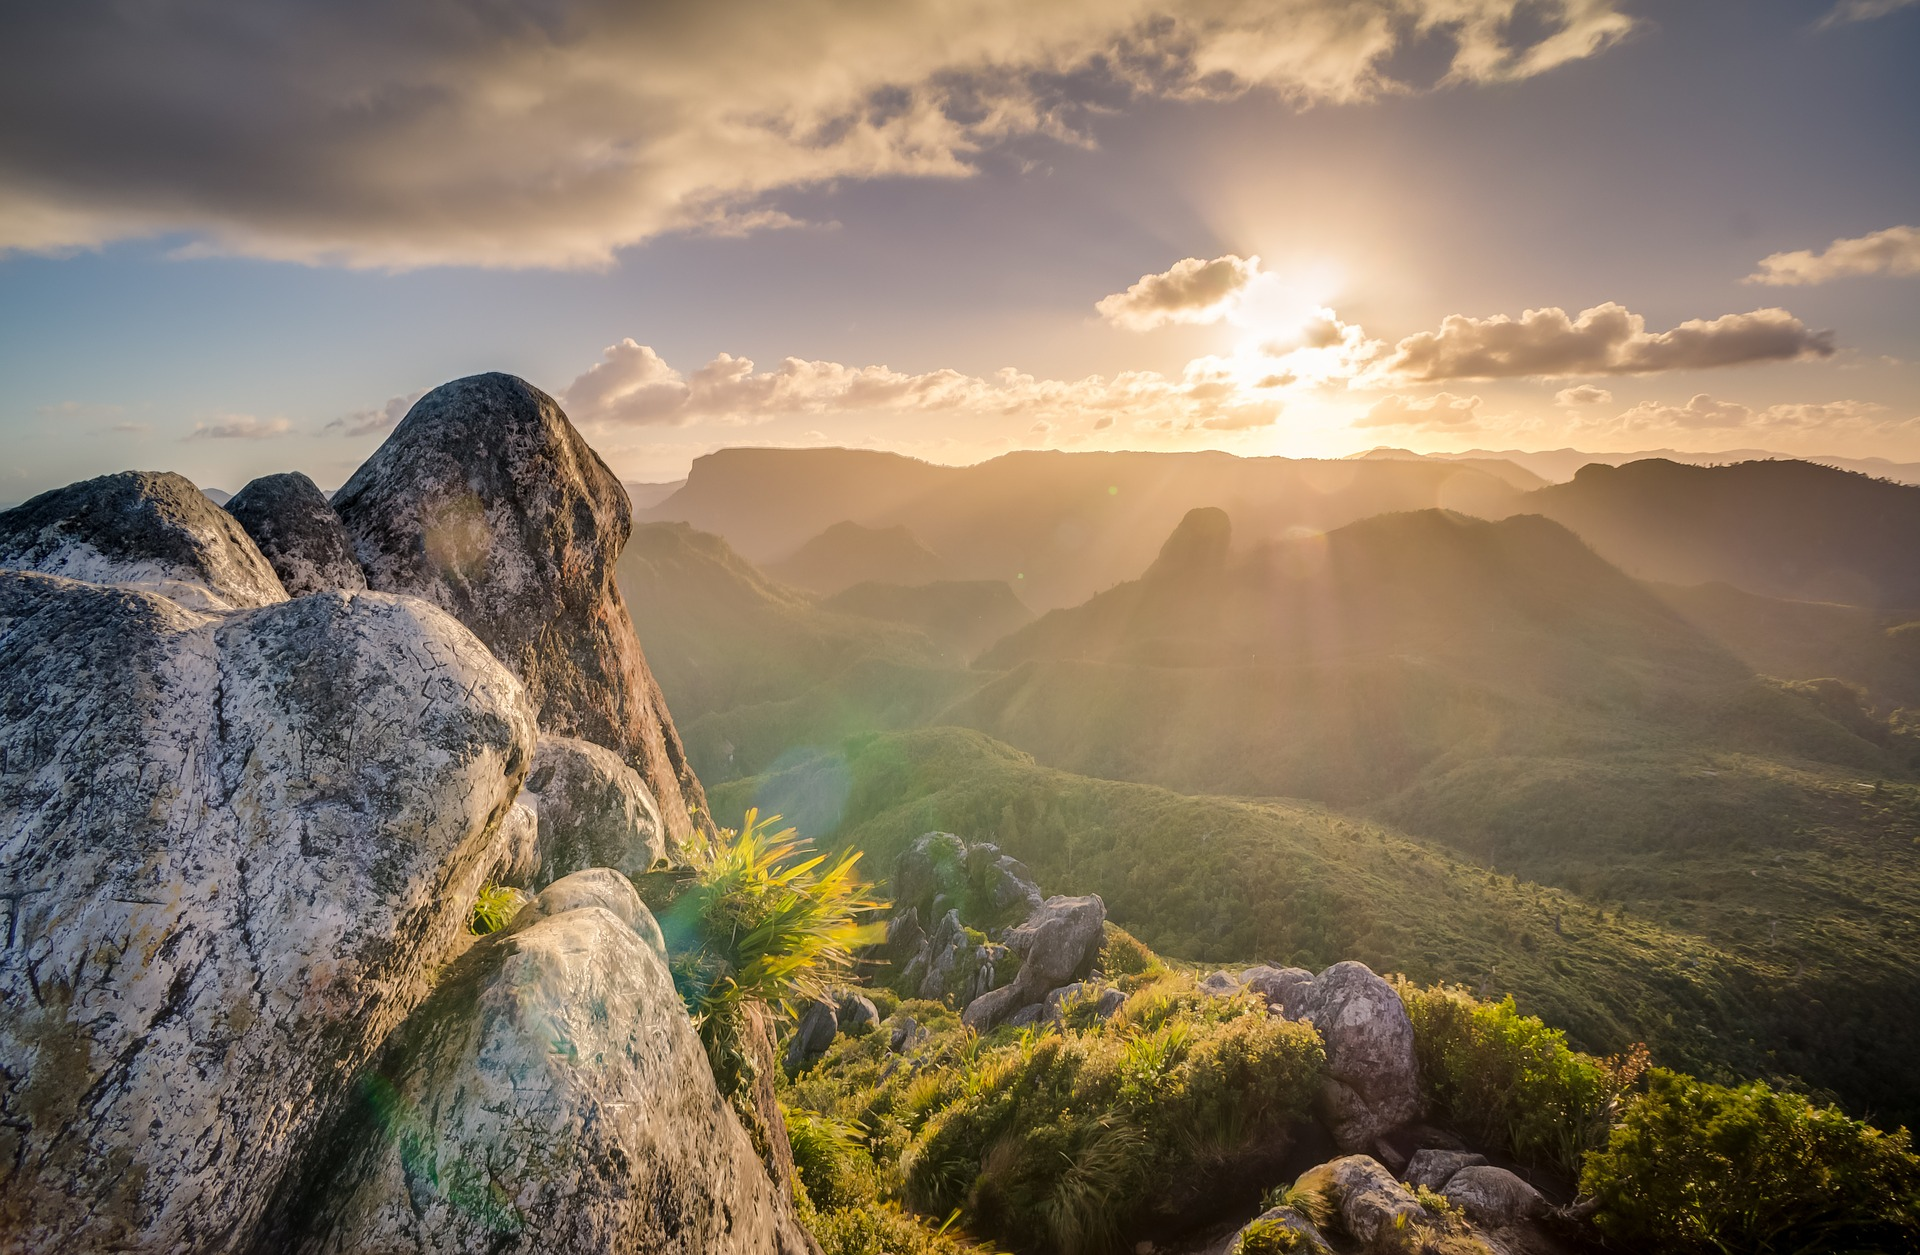
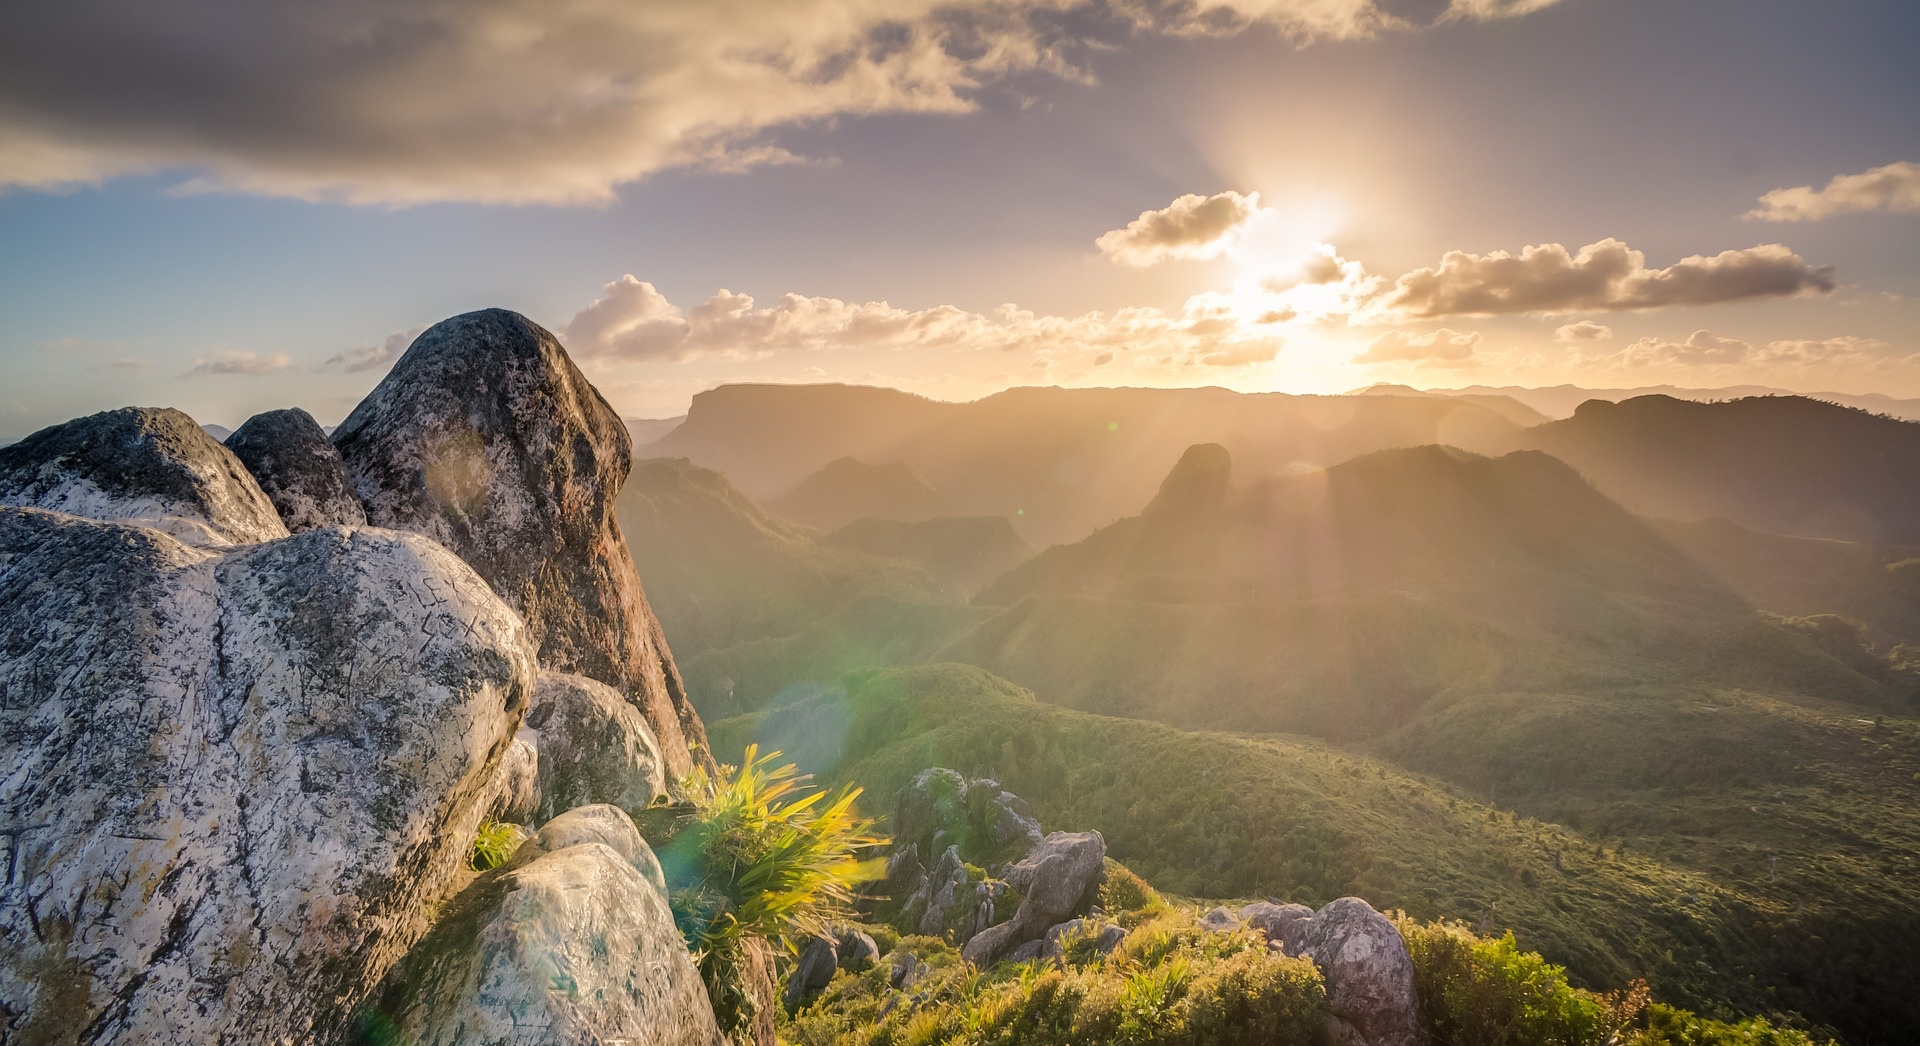
修正landing image

diff --git a/app/assets/stylesheets/gallery-materialize.css b/app/assets/stylesheets/gallery-materialize.css
@@ -3999,7 +3999,7 @@ nav ul a span.badge {
 
 nav {
   color: #fff;
-  background-color: #ba68c8;
+  background-color: rgba(0,0,0,0.3);
   width: 100%;
   height: 56px;
   line-height: 56px;
@@ -8674,7 +8674,7 @@ nav .nav-background {
   bottom: 0;
   left: 0;
   z-index: -1;
-  opacity: .1;
+  opacity: .9;
 }
 
 nav .nav-background img,
@@ -8688,8 +8688,6 @@ nav .nav-background .pattern {
   left: 0;
   margin: 0 auto;
   max-width: 100%;
-  -webkit-filter: grayscale(100%);
-          filter: grayscale(100%);
   transition: opacity .7s;
 }
 
@@ -8703,7 +8701,8 @@ nav .nav-background .pattern {
   bottom: 0;
   -webkit-transform: none;
           transform: none;
-  background-repeat: repeat;
+  background-repeat: no-repeat;
+  background-size: 100%;
 }
 
 nav .nav-background .full-width {

diff --git a/app/assets/stylesheets/application.scss b/app/assets/stylesheets/application.scss
@@ -13,3 +13,7 @@
  *= require_tree .
  *= require_self
  */
+
+@import "gallery-materialize";
+@import "prism";
+@import "style";
